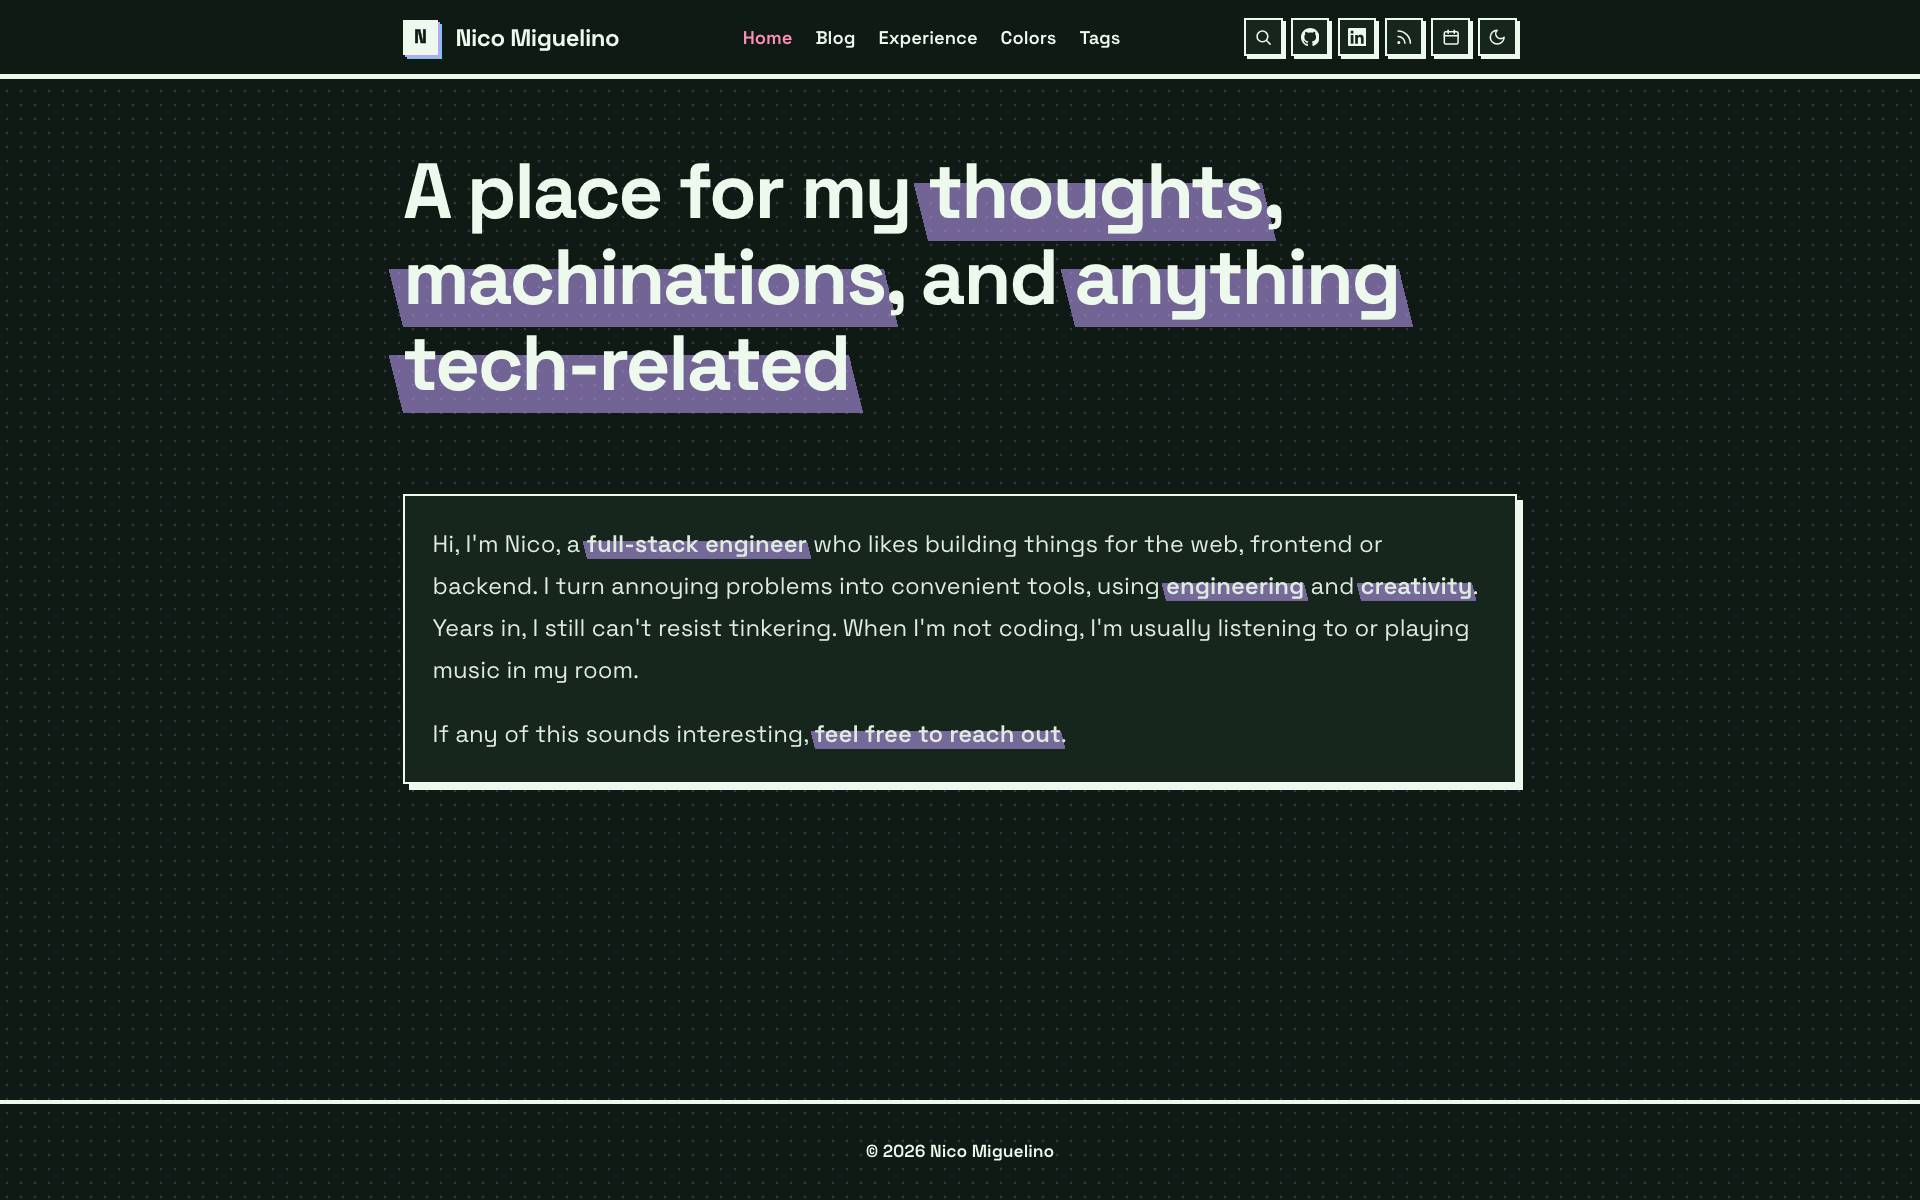
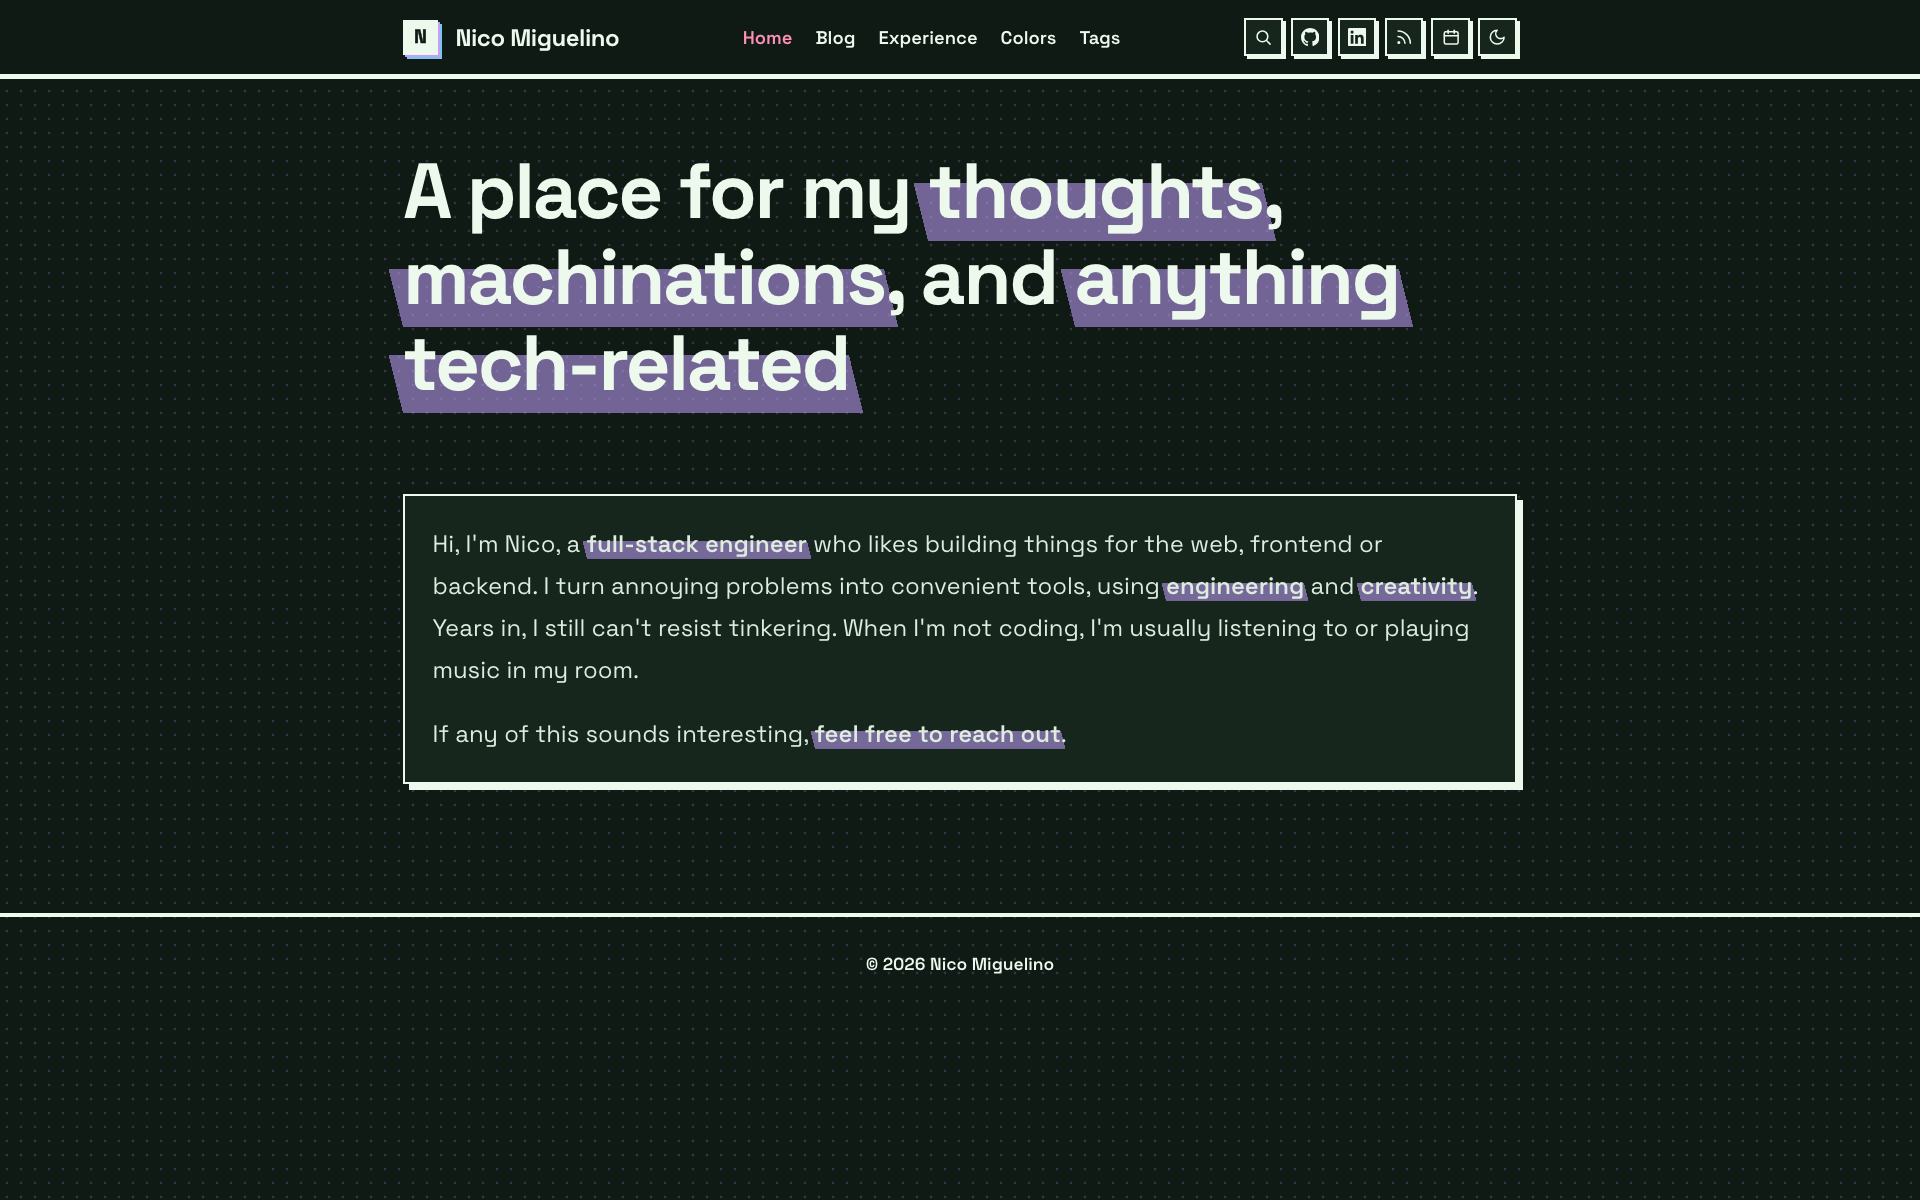
feat(styles): add summer theme
- Add summer palette (Jun 21 to Sept 21), picked by Automatic
- Neon is now picker-only
- Add heat shimmer and sunlight effects
- Use a circle cursor in autumn
- Update tests, screenshots, and README

diff --git a/src/tests/e2e/theme-picker.spec.ts b/src/tests/e2e/theme-picker.spec.ts
@@ -1,7 +1,7 @@
 import { expect, test, type Page } from '@playwright/test';
-import { AUTUMN_SEASON, DEFAULT_SEASON } from '../seasons';
+import { AUTUMN_SEASON, SUMMER_SEASON } from '../seasons';
 
-const FIXED_THEMES: string[] = ['neon', 'autumn', 'winter', 'spring'];
+const FIXED_THEMES: string[] = ['neon', 'autumn', 'winter', 'spring', 'summer'];
 
 async function chooseTheme(page: Page, theme: string): Promise<void> {
   await page.locator('#theme-picker summary').click();
@@ -10,7 +10,7 @@ async function chooseTheme(page: Page, theme: string): Promise<void> {
 
 for (const theme of FIXED_THEMES) {
   test(`theme picker applies the ${theme} theme and keeps it after a reload`, async ({ page }) => {
-    await page.clock.setFixedTime(new Date(DEFAULT_SEASON.date));
+    await page.clock.setFixedTime(new Date(SUMMER_SEASON.date));
     await page.goto('/');
 
     await chooseTheme(page, theme);
@@ -36,7 +36,7 @@ test('theme picker returns to the date based theme when automatic is chosen', as
 });
 
 test('theme picker shows the falling particles of the chosen theme', async ({ page }) => {
-  await page.clock.setFixedTime(new Date(DEFAULT_SEASON.date));
+  await page.clock.setFixedTime(new Date(SUMMER_SEASON.date));
   await page.goto('/');
   await expect(page.locator('.falling-particles:visible')).toHaveCount(0);
 
@@ -45,7 +45,7 @@ test('theme picker shows the falling particles of the chosen theme', async ({ pa
 });
 
 test('theme picker keeps the light or dark mode when the theme changes', async ({ page }) => {
-  await page.clock.setFixedTime(new Date(DEFAULT_SEASON.date));
+  await page.clock.setFixedTime(new Date(SUMMER_SEASON.date));
   await page.emulateMedia({ colorScheme: 'dark' });
   await page.goto('/');
 

diff --git a/src/styles/palettes.css b/src/styles/palettes.css
@@ -211,3 +211,54 @@ html:not([data-palette]) body {
   --term-cmd: #2f8f4e;
   --term-str: #a8841a;
 }
+
+[data-palette='summer-dark'] {
+  --bg: #10202a;
+  --bg-elevated: #172c38;
+  --ink: #fff8e8;
+  --ink-soft: #f0e6cc;
+  --muted: #9db8c2;
+  --muted-2: #7f9aa5;
+  --line: #254556;
+  --line-strong: #346078;
+  --accent: #ffb347;
+  --green: #7fe0c0;
+  --yellow: #ffd95e;
+  --red: #ff7f6e;
+  --blue: #5cc8f0;
+  --pink: #ff8f7a;
+  --dot: color-mix(in srgb, var(--pink) 20%, transparent);
+  --term-bg: #0b1820;
+  --term-active-bg: #172c38;
+  --term-border: #254556;
+  --term-text: #f0e6cc;
+  --term-muted: #7f9aa5;
+  --term-prompt: #ffb347;
+  --term-cmd: #5cc8f0;
+  --term-str: #ffd95e;
+}
+[data-palette='summer-light'] {
+  --bg: #fffaf0;
+  --bg-elevated: #ffffff;
+  --ink: #2b2a22;
+  --ink-soft: #4a4636;
+  --muted: #7a7258;
+  --muted-2: #988f72;
+  --line: #f1e6c8;
+  --line-strong: #e2d1a2;
+  --accent: #e8590c;
+  --green: #1f8f75;
+  --yellow: #b07d0a;
+  --red: #d63d2e;
+  --blue: #7fd1ee;
+  --pink: #ffb199;
+  --dot: color-mix(in srgb, var(--pink) 32%, transparent);
+  --term-bg: #fffaf0;
+  --term-active-bg: #f8eed2;
+  --term-border: #f1e6c8;
+  --term-text: #4a4636;
+  --term-muted: #988f72;
+  --term-prompt: #e8590c;
+  --term-cmd: #1a7fa3;
+  --term-str: #b07d0a;
+}

diff --git a/src/tests/e2e/heat-shimmer.spec.ts b/src/tests/e2e/heat-shimmer.spec.ts
@@ -1,0 +1,24 @@
+import { expect, test } from '@playwright/test';
+import { AUTUMN_SEASON, SUMMER_SEASON } from '../seasons';
+
+test('home page applies the heat shimmer filter in summer', async ({ page }) => {
+  await page.clock.setFixedTime(new Date(SUMMER_SEASON.date));
+  await page.goto('/');
+
+  await expect(page.locator('[data-shimmer]')).toHaveCSS('filter', /heat-shimmer/);
+});
+
+test('home page leaves the heat shimmer off outside summer', async ({ page }) => {
+  await page.clock.setFixedTime(new Date(AUTUMN_SEASON.date));
+  await page.goto('/');
+
+  await expect(page.locator('[data-shimmer]')).toHaveCSS('filter', 'none');
+});
+
+test('home page leaves the heat shimmer off when reduced motion is preferred', async ({ page }) => {
+  await page.clock.setFixedTime(new Date(SUMMER_SEASON.date));
+  await page.emulateMedia({ reducedMotion: 'reduce' });
+  await page.goto('/');
+
+  await expect(page.locator('[data-shimmer]')).toHaveCSS('filter', 'none');
+});

diff --git a/src/tests/e2e/falling-particles.spec.ts b/src/tests/e2e/falling-particles.spec.ts
@@ -1,5 +1,5 @@
 import { expect, test } from '@playwright/test';
-import { AUTUMN_SEASON, DEFAULT_SEASON, SPRING_SEASON, WINTER_SEASON } from '../seasons';
+import { AUTUMN_SEASON, SUMMER_SEASON, SPRING_SEASON, WINTER_SEASON } from '../seasons';
 
 interface SeasonCase {
   description: string;
@@ -10,7 +10,7 @@ interface SeasonCase {
 const PARTICLE_FAMILIES: string[] = ['autumn', 'winter', 'spring'];
 
 const SEASON_CASES: SeasonCase[] = [
-  { description: 'default season', date: DEFAULT_SEASON.date, visibleFamily: null },
+  { description: 'mid summer', date: SUMMER_SEASON.date, visibleFamily: null },
   { description: 'mid autumn', date: AUTUMN_SEASON.date, visibleFamily: 'autumn' },
   { description: 'first day of autumn', date: '2026-09-22T12:00:00', visibleFamily: 'autumn' },
   { description: 'last day of autumn', date: '2026-12-21T12:00:00', visibleFamily: 'autumn' },

diff --git a/src/lib/palette.ts b/src/lib/palette.ts
@@ -6,13 +6,14 @@ export const PALETTE_CONFIG = {
     autumn: { start: 922, end: 1221 },
     winter: { start: 1222, end: 319 },
     spring: { start: 320, end: 620 },
+    summer: { start: 621, end: 921 },
   },
 } as const;
 
 type PaletteMode = 'light' | 'dark';
-export type PaletteFamily = 'neon' | 'autumn' | 'winter' | 'spring';
+export type PaletteFamily = 'neon' | 'autumn' | 'winter' | 'spring' | 'summer';
 export type ThemeChoice = 'auto' | PaletteFamily;
-export const THEME_CHOICES: ThemeChoice[] = ['auto', 'neon', 'autumn', 'winter', 'spring'];
+export const THEME_CHOICES: ThemeChoice[] = ['auto', 'neon', 'autumn', 'winter', 'spring', 'summer'];
 
 type SeasonRange = { start: number; end: number };
 

diff --git a/src/tests/screenshots/support.ts b/src/tests/screenshots/support.ts
@@ -1,6 +1,6 @@
 import { join } from 'path';
 import { test, type Page } from '@playwright/test';
-import { DEFAULT_SEASON, type Season } from '../seasons';
+import { SUMMER_SEASON, type Season } from '../seasons';
 
 type ColorScheme = 'light' | 'dark';
 
@@ -40,7 +40,7 @@ async function freezeParticleAnimations(page: Page): Promise<void> {
 export function defineScreenshotTests(
   pageName: string,
   path: string,
-  seasons: Season[] = [DEFAULT_SEASON],
+  seasons: Season[] = [SUMMER_SEASON],
   options: ScreenshotOptions = {},
 ): void {
   for (const season of seasons) {

diff --git a/src/tests/seasons.ts b/src/tests/seasons.ts
@@ -3,7 +3,7 @@ export interface Season {
   date: string;
 }
 
-export const DEFAULT_SEASON: Season = { name: 'default', date: '2026-07-15T12:00:00' };
+export const SUMMER_SEASON: Season = { name: 'summer', date: '2026-07-15T12:00:00' };
 export const AUTUMN_SEASON: Season = { name: 'autumn', date: '2026-10-15T12:00:00' };
 export const WINTER_SEASON: Season = { name: 'winter', date: '2026-01-15T12:00:00' };
 export const SPRING_SEASON: Season = { name: 'spring', date: '2026-04-15T12:00:00' };

diff --git a/src/tests/screenshots/falling-particles.spec.ts b/src/tests/screenshots/falling-particles.spec.ts
@@ -1,6 +1,6 @@
-import { AUTUMN_SEASON, DEFAULT_SEASON, SPRING_SEASON, WINTER_SEASON } from '../seasons';
+import { AUTUMN_SEASON, SPRING_SEASON, WINTER_SEASON } from '../seasons';
 import { defineScreenshotTests } from './support';
 
-defineScreenshotTests('falling-particles', '/', [DEFAULT_SEASON, AUTUMN_SEASON, WINTER_SEASON, SPRING_SEASON], {
+defineScreenshotTests('falling-particles', '/', [AUTUMN_SEASON, WINTER_SEASON, SPRING_SEASON], {
   keepAnimations: true,
 });

diff --git a/src/tests/screenshots/home.spec.ts b/src/tests/screenshots/home.spec.ts
@@ -1,4 +1,4 @@
-import { AUTUMN_SEASON, DEFAULT_SEASON, SPRING_SEASON, WINTER_SEASON } from '../seasons';
+import { AUTUMN_SEASON, SUMMER_SEASON, SPRING_SEASON, WINTER_SEASON } from '../seasons';
 import { defineScreenshotTests } from './support';
 
-defineScreenshotTests('home', '/', [DEFAULT_SEASON, AUTUMN_SEASON, WINTER_SEASON, SPRING_SEASON]);
+defineScreenshotTests('home', '/', [SUMMER_SEASON, AUTUMN_SEASON, WINTER_SEASON, SPRING_SEASON]);

diff --git a/README.md b/README.md
@@ -35,19 +35,20 @@ bun run test:e2e      # Playwright E2E and screenshot tests
 
 ## Seasonal theme
 
-The site switches palettes by date. Both families have a light and a dark variant, defined in `src/styles/palettes.css`:
+The site switches palettes by date. Every family has a light and a dark variant, defined in `src/styles/palettes.css`:
 
-- `neon-*`: the default, used all year
+- `neon-*`: not tied to a date, only available from the theme picker
 - `autumn-*`: used from Sept 22 to Dec 21
 - `winter-*`: used from Dec 22 to Mar 19
 - `spring-*`: used from Mar 20 to Jun 20
+- `summer-*`: used from Jun 21 to Sept 21
 
 |        | Light                                              | Dark                                             |
 | ------ | -------------------------------------------------- | ------------------------------------------------ |
-| Neon   | ![Neon light](screenshots/home-default-light.png)  | ![Neon dark](screenshots/home-default-dark.png)  |
 | Autumn | ![Autumn light](screenshots/home-autumn-light.png) | ![Autumn dark](screenshots/home-autumn-dark.png) |
 | Winter | ![Winter light](screenshots/home-winter-light.png) | ![Winter dark](screenshots/home-winter-dark.png) |
 | Spring | ![Spring light](screenshots/home-spring-light.png) | ![Spring dark](screenshots/home-spring-dark.png) |
+| Summer | ![Summer light](screenshots/home-summer-light.png) | ![Summer dark](screenshots/home-summer-dark.png) |
 
 How it works:
 
@@ -56,9 +57,9 @@ How it works:
 - The legacy `site-palette` value is migrated to `site-mode` and removed.
 - `initializePalette()` in `src/lib/palette.ts` sets `data-palette` on `<html>`. `Layout.astro` calls it from `<head>`, and `body` stays hidden until the attribute is set (visible when scripting is off) to avoid a flash of the wrong colors.
 - The theme toggle switches between light and dark within the active family.
-- The theme picker in the navbar (before the light/dark toggle) overrides the date: Automatic (follow the date, the default), Neon, Autumn, Winter, or Spring. The choice is stored in `localStorage` as `site-theme` (removed for Automatic), and the matching falling effect follows it.
+- The theme picker in the navbar (before the light/dark toggle) overrides the date: Automatic (follow the date, the default), Neon, Autumn, Winter, Spring, or Summer. The choice is stored in `localStorage` as `site-theme` (removed for Automatic), and the matching falling effect follows it.
 
-Each season also has a falling effect on the home page (`FallingLeaves`, `FallingSnow`, `FallingPetals`), shown only under its palettes and when `prefers-reduced-motion` allows it.
+Autumn, winter and spring each have a falling effect on the home page (`FallingLeaves`, `FallingSnow`, `FallingPetals`). Summer has two ambient effects instead: `HeatShimmer` (an SVG displacement filter that makes the page content shimmer) and `Sunlight` (a pulsing warm glow in the top-right corner). Every effect is shown only under its palettes and when `prefers-reduced-motion` allows it.
 
 To change the dates, edit `seasons` in `PALETTE_CONFIG` (`MMDD` numbers, inclusive; a range with `start` after `end` wraps the new year). To add a season, add it to `THEME_CHOICES` and the picker options in `src/components/header/ThemePicker.astro`, then add `[data-palette='<name>-light']` and `<name>-dark` blocks to `palettes.css`, add its name to `PaletteFamily`, and add its range to `seasons`.
 
@@ -92,12 +93,12 @@ bunx playwright show-report                              # open the last HTML re
 ### Screenshots
 
 - Every page is captured at 1920x1200 in light and dark. The home page is also captured in autumn, winter and spring.
-- The clock is pinned (July 15 for the default palette, Oct 15 for autumn, Jan 15 for winter, Apr 15 for spring), so results don't depend on today's date.
-- `falling-particles` captures the home page with the falling effects frozen mid-fall (all seasons), since the other screenshots disable animations and so hide the particles.
+- The clock is pinned (July 15 for summer, Oct 15 for autumn, Jan 15 for winter, Apr 15 for spring), so results don't depend on today's date.
+- `falling-particles` captures the home page with the falling effects frozen mid-fall (autumn, winter and spring; summer has no particles), since the other screenshots disable animations and so hide the particles.
 - The color scheme is emulated with `prefers-color-scheme`.
 - Screenshots are written to `screenshots/` (overwriting the previous ones) and are not part of the deployed site. Names look like `home-autumn-dark.png`.
 - They are captured, not compared, so the tests don't fail on visual changes. Review the images in `git diff` before committing.
-- To add a page, create `src/tests/screenshots/<page>.spec.ts` that calls `defineScreenshotTests('<page>', '/<path>/')` from `./support`. Pass `[DEFAULT_SEASON, AUTUMN_SEASON, WINTER_SEASON, SPRING_SEASON]` as a third argument to cover every palette.
+- To add a page, create `src/tests/screenshots/<page>.spec.ts` that calls `defineScreenshotTests('<page>', '/<path>/')` from `./support`. Pass `[SUMMER_SEASON, AUTUMN_SEASON, WINTER_SEASON, SPRING_SEASON]` as a third argument to cover every palette.
 
 The `Checks` workflow runs lint, format, and E2E as parallel jobs after a shared dependency setup, on pushes and pull requests to `main`. It can also be started manually.
 
@@ -125,7 +126,7 @@ src/
   content/blog/   # posts as markdown
   lib/            # post and tag helpers, palette config, particle shapes, color token list, site constants
   pages/          # index (home), blog/, experience/, colors/, tags/, 404, rss
-  styles/         # global styles, design tokens, neon and autumn palette definitions (Tailwind CSS)
+  styles/         # global styles, design tokens, palette definitions (Tailwind CSS)
   tests/          # Playwright specs: e2e/ and screenshots/
 screenshots/      # committed screenshot baselines (not deployed)
 public/
